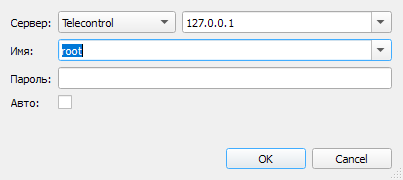
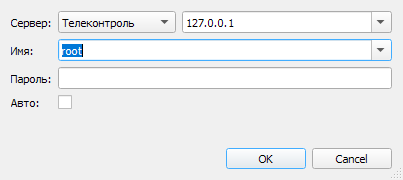
Update screenshots and screenshot docs

Changed region(s): [[0.1489, 0.1111, 0.3275, 0.1667]]

diff --git a/CLAUDE.md b/CLAUDE.md
@@ -60,7 +60,8 @@ Client-side search via Lunr is enabled in `_config.yml`. The tokenizer is config
 
 Most images under `img/` are produced by an offline screenshot generator
 that lives in the scada-client repo (`client/app/screenshot_generator.cpp`).
-Every file in `img/` is tagged in [`img/MANIFEST.md`](img/MANIFEST.md)
+Every file in `img/` is tagged in
+`../client/docs/image_manifest.json`
 with one of:
 
 - `auto-view` — main-window view; generator renders it via a
@@ -86,20 +87,22 @@ cmd.exe /c C:\tc\scada\client\update_scada_docs_screenshots.cmd
 ```
 
 For now the script updates only the current approved rollout subset:
-`client-retransmission.png` and `users.png`.
+`client-login.png`, `client-retransmission.png`, `graph-cursor.png`,
+and `users.png`.
 
 Then `git diff img/` in scada-docs to review the changes before
 committing.
 
 ### Adding a new image
 
-1. Decide whether the image can be auto-generated. If yes, add a row to
-   `img/MANIFEST.md` with the right `auto-*` tag, then extend
+1. Decide whether the image can be auto-generated. If yes, add an entry to
+   `../client/docs/image_manifest.json` with the right `auto-*` tag,
+   then extend
    `client/app/screenshot_data.json` in scada-client (see the
    "Regenerating the doc screenshots" subsection of
    `client/docs/design.md` for the JSON schema).
-2. If it has to be hand-captured (`manual-*`), still add a row to
-   `MANIFEST.md` so future editors don't assume it's auto.
+2. If it has to be hand-captured (`manual-*`), still add an entry there
+   so future editors don't assume it's auto.
 3. Reference it from the right markdown page with a relative path
    (`![](img/foo.png)` from root pages, `![](../img/foo.png)` from
    `client/` or `dev/` pages).

diff --git a/client/graph.md b/client/graph.md
@@ -95,7 +95,7 @@ permalink: /client/graph
 
 При одиночном щелчке по шкале времени или значений, в соответствующую позицию шкалы добавляется курсор, служащий для исследования графика. Курсор - это горизонтальная (для значений) или вертикальная (для времени) линия, привязанная к значению шкалы и проходящая через всю область графика. На шкале отображается "корешок" курсора, подписанный значением, к которому привязан курсор.
 
-![](../img/graph-cursor.jpg)
+![](../img/graph-cursor.png)
 
 После добавления курсора он становится перемещаемым и следует за указателем мыши. При этом легенда отображает значения линии графика, соответствующее положению курсора. Для закрепления курсора следует еще раз щелкнуть в нужной позиции шкалы. Допустимо произвольное количество курсоров на графике. При изменении масштаба графика курсоры остаются привязанными к значениям шкалы.
 
